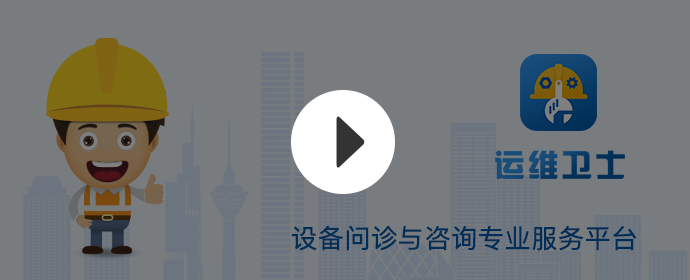
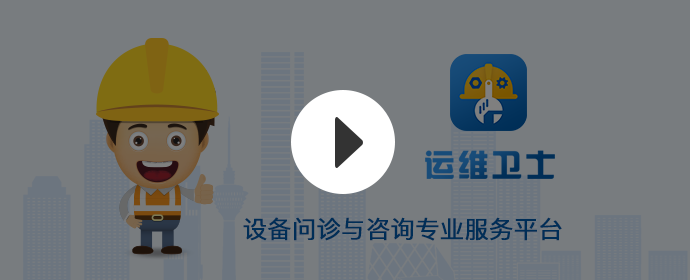
zz

diff --git a/source/plugin/tool/template/static.php b/source/plugin/tool/template/static.php
@@ -25,7 +25,7 @@
     height: 220px;
     width: 100%;
     background-position: center;
-    background-size: 100%;
+    background-size: cover;
     background-repeat: no-repeat;
     background-color: #000;
 
